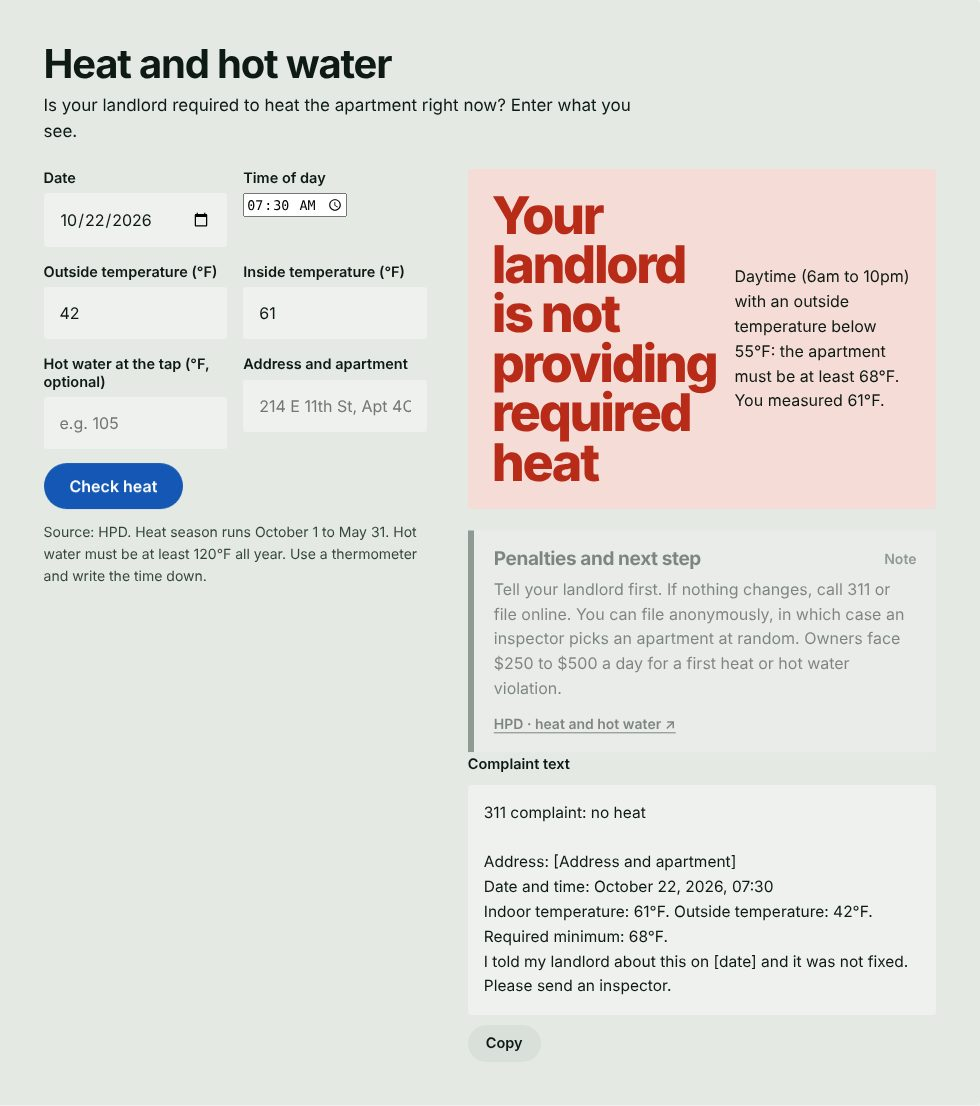
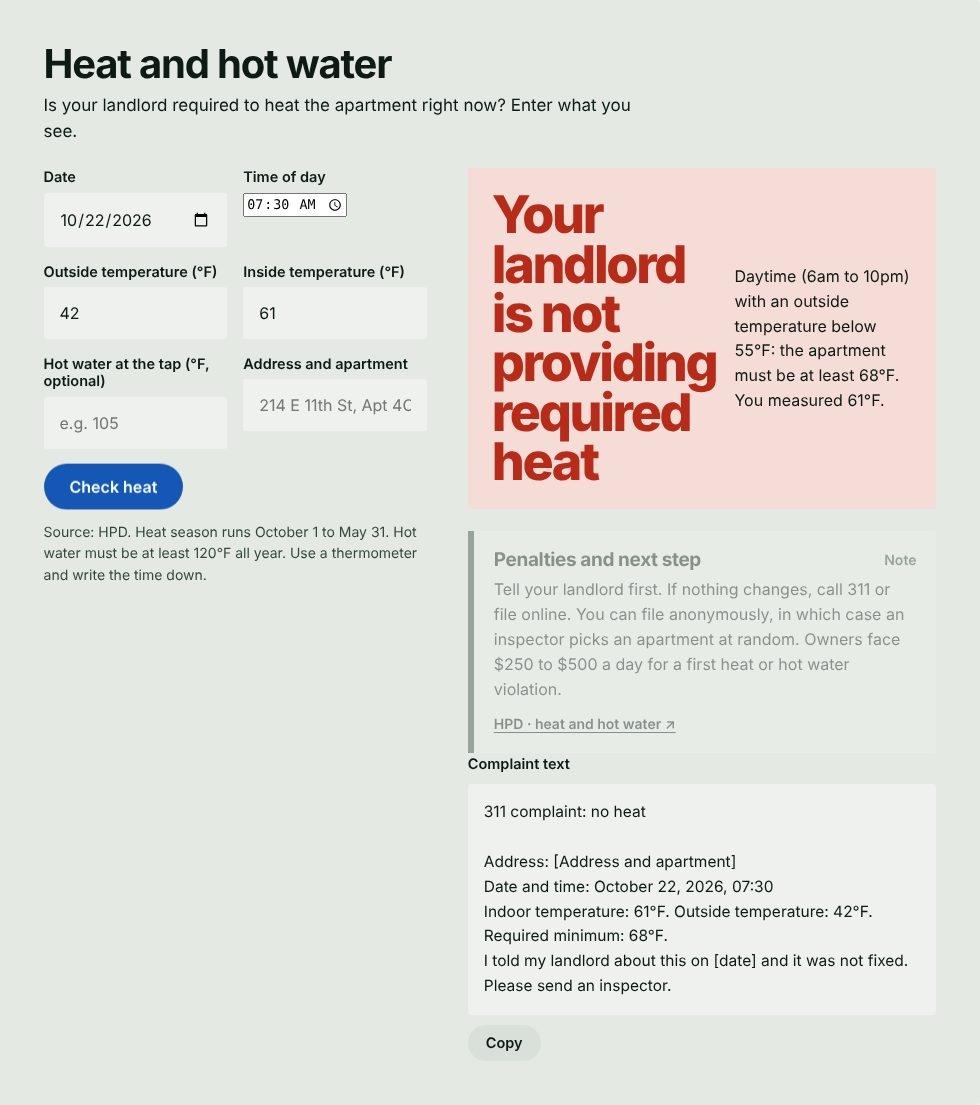
Fix complaint map layout and refresh screenshot
Claude-Session: https://claude.ai/code/session_01DeYJQeWd23L3eWVgPWdfFH

diff --git a/index.html b/index.html
@@ -839,12 +839,12 @@ $('#drun').onclick=()=>{
 
 /* ---------- complaint map (schematic) ---------- */
 (function(){
-  const k=22,items=[['Bronx',null,330,10],['Manhattan',41,150,40],['Queens',46,350,150],['Brooklyn',67,170,235],['Staten Island',null,10,310]];
-  let o='<svg class="chart" viewBox="0 0 520 420" role="img" aria-label="Schematic of the five boroughs. Brooklyn 67 complaints, Queens 46, Manhattan 41. Bronx and Staten Island not itemised.">';
+  const k=22,items=[['Bronx',null,330,8],['Manhattan',41,150,8],['Queens',46,340,150],['Brooklyn',67,150,185],['Staten Island',null,4,262]];
+  let o='<svg class="chart" viewBox="0 0 500 380" role="img" aria-label="Schematic of the five boroughs. Brooklyn 67 complaints, Queens 46, Manhattan 41. Bronx and Staten Island not itemised.">';
   items.forEach(([n,v,x,y])=>{
-    const sd=v?Math.sqrt(v)*k:100;
-    if(v)o+='<rect class="bx" x="'+x+'" y="'+y+'" width="'+sd+'" height="'+sd+'" rx="2"/><text class="bn" x="'+(x+14)+'" y="'+(y+40)+'">'+v+'</text><text class="bl" x="'+(x+14)+'" y="'+(y+62)+'">'+n+'</text>';
-    else o+='<rect class="bx nil" x="'+x+'" y="'+y+'" width="'+sd+'" height="'+sd+'" rx="2"/><text class="bl" style="fill:var(--field-ink)" x="'+(x+12)+'" y="'+(y+34)+'">'+n+'</text><text class="bn2" x="'+(x+12)+'" y="'+(y+54)+'">not itemised</text>';
+    const sd=v?Math.sqrt(v)*k:122;
+    if(v)o+='<rect class="bx" x="'+x+'" y="'+y+'" width="'+sd+'" height="'+sd+'" rx="2"/><text class="bn" x="'+(x+16)+'" y="'+(y+46)+'">'+v+'</text><text class="bl" x="'+(x+16)+'" y="'+(y+70)+'">'+n+'</text>';
+    else o+='<rect class="bx nil" x="'+x+'" y="'+y+'" width="'+sd+'" height="'+sd+'" rx="2"/><text class="bl" style="fill:var(--field-ink)" x="'+(x+14)+'" y="'+(y+40)+'">'+n+'</text><text class="bn2" x="'+(x+14)+'" y="'+(y+62)+'">not itemised</text>';
   });
   $('#c-map').innerHTML=o+'</svg>';
 })();
